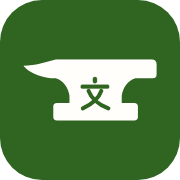
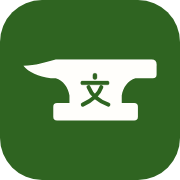
fix: align wen cut-out with the anvil's vertical center
Claude-Session: https://claude.ai/code/session_012wCgMtm5zK7AkKFSuiu2RD

Changed region(s): [[0.4444, 0.3889, 0.6389, 0.6389]]

diff --git a/apps/site/src/components/logoGeometry.ts b/apps/site/src/components/logoGeometry.ts
@@ -23,9 +23,9 @@ export const WEN_STROKE_WIDTH = 12;
 /** 含圓頭描邊後的「文」外接框（局部座標） */
 const WEN_BOUNDS = { minX: 8, minY: 2, maxX: 96, maxY: 101 } as const;
 
-/** 「文」中心點：砧身（腰部到底座）中心 y 81 往上 4.5，視覺上下留白較平衡 */
+/** 「文」中心點：與整個鐵砧外接框的垂直中心（y 73.5）對齊 */
 const WEN_SCALE = 0.27;
-const WEN_CENTER = { x: 64, y: 76.5 } as const;
+const WEN_CENTER = { x: 64, y: (ANVIL_BOUNDS.minY + ANVIL_BOUNDS.maxY) / 2 } as const;
 const WEN_TX = WEN_CENTER.x - ((WEN_BOUNDS.minX + WEN_BOUNDS.maxX) / 2) * WEN_SCALE;
 const WEN_TY = WEN_CENTER.y - ((WEN_BOUNDS.minY + WEN_BOUNDS.maxY) / 2) * WEN_SCALE;
 export const WEN_TRANSFORM = `translate(${WEN_TX.toFixed(2)} ${WEN_TY.toFixed(2)}) scale(${WEN_SCALE})`;
